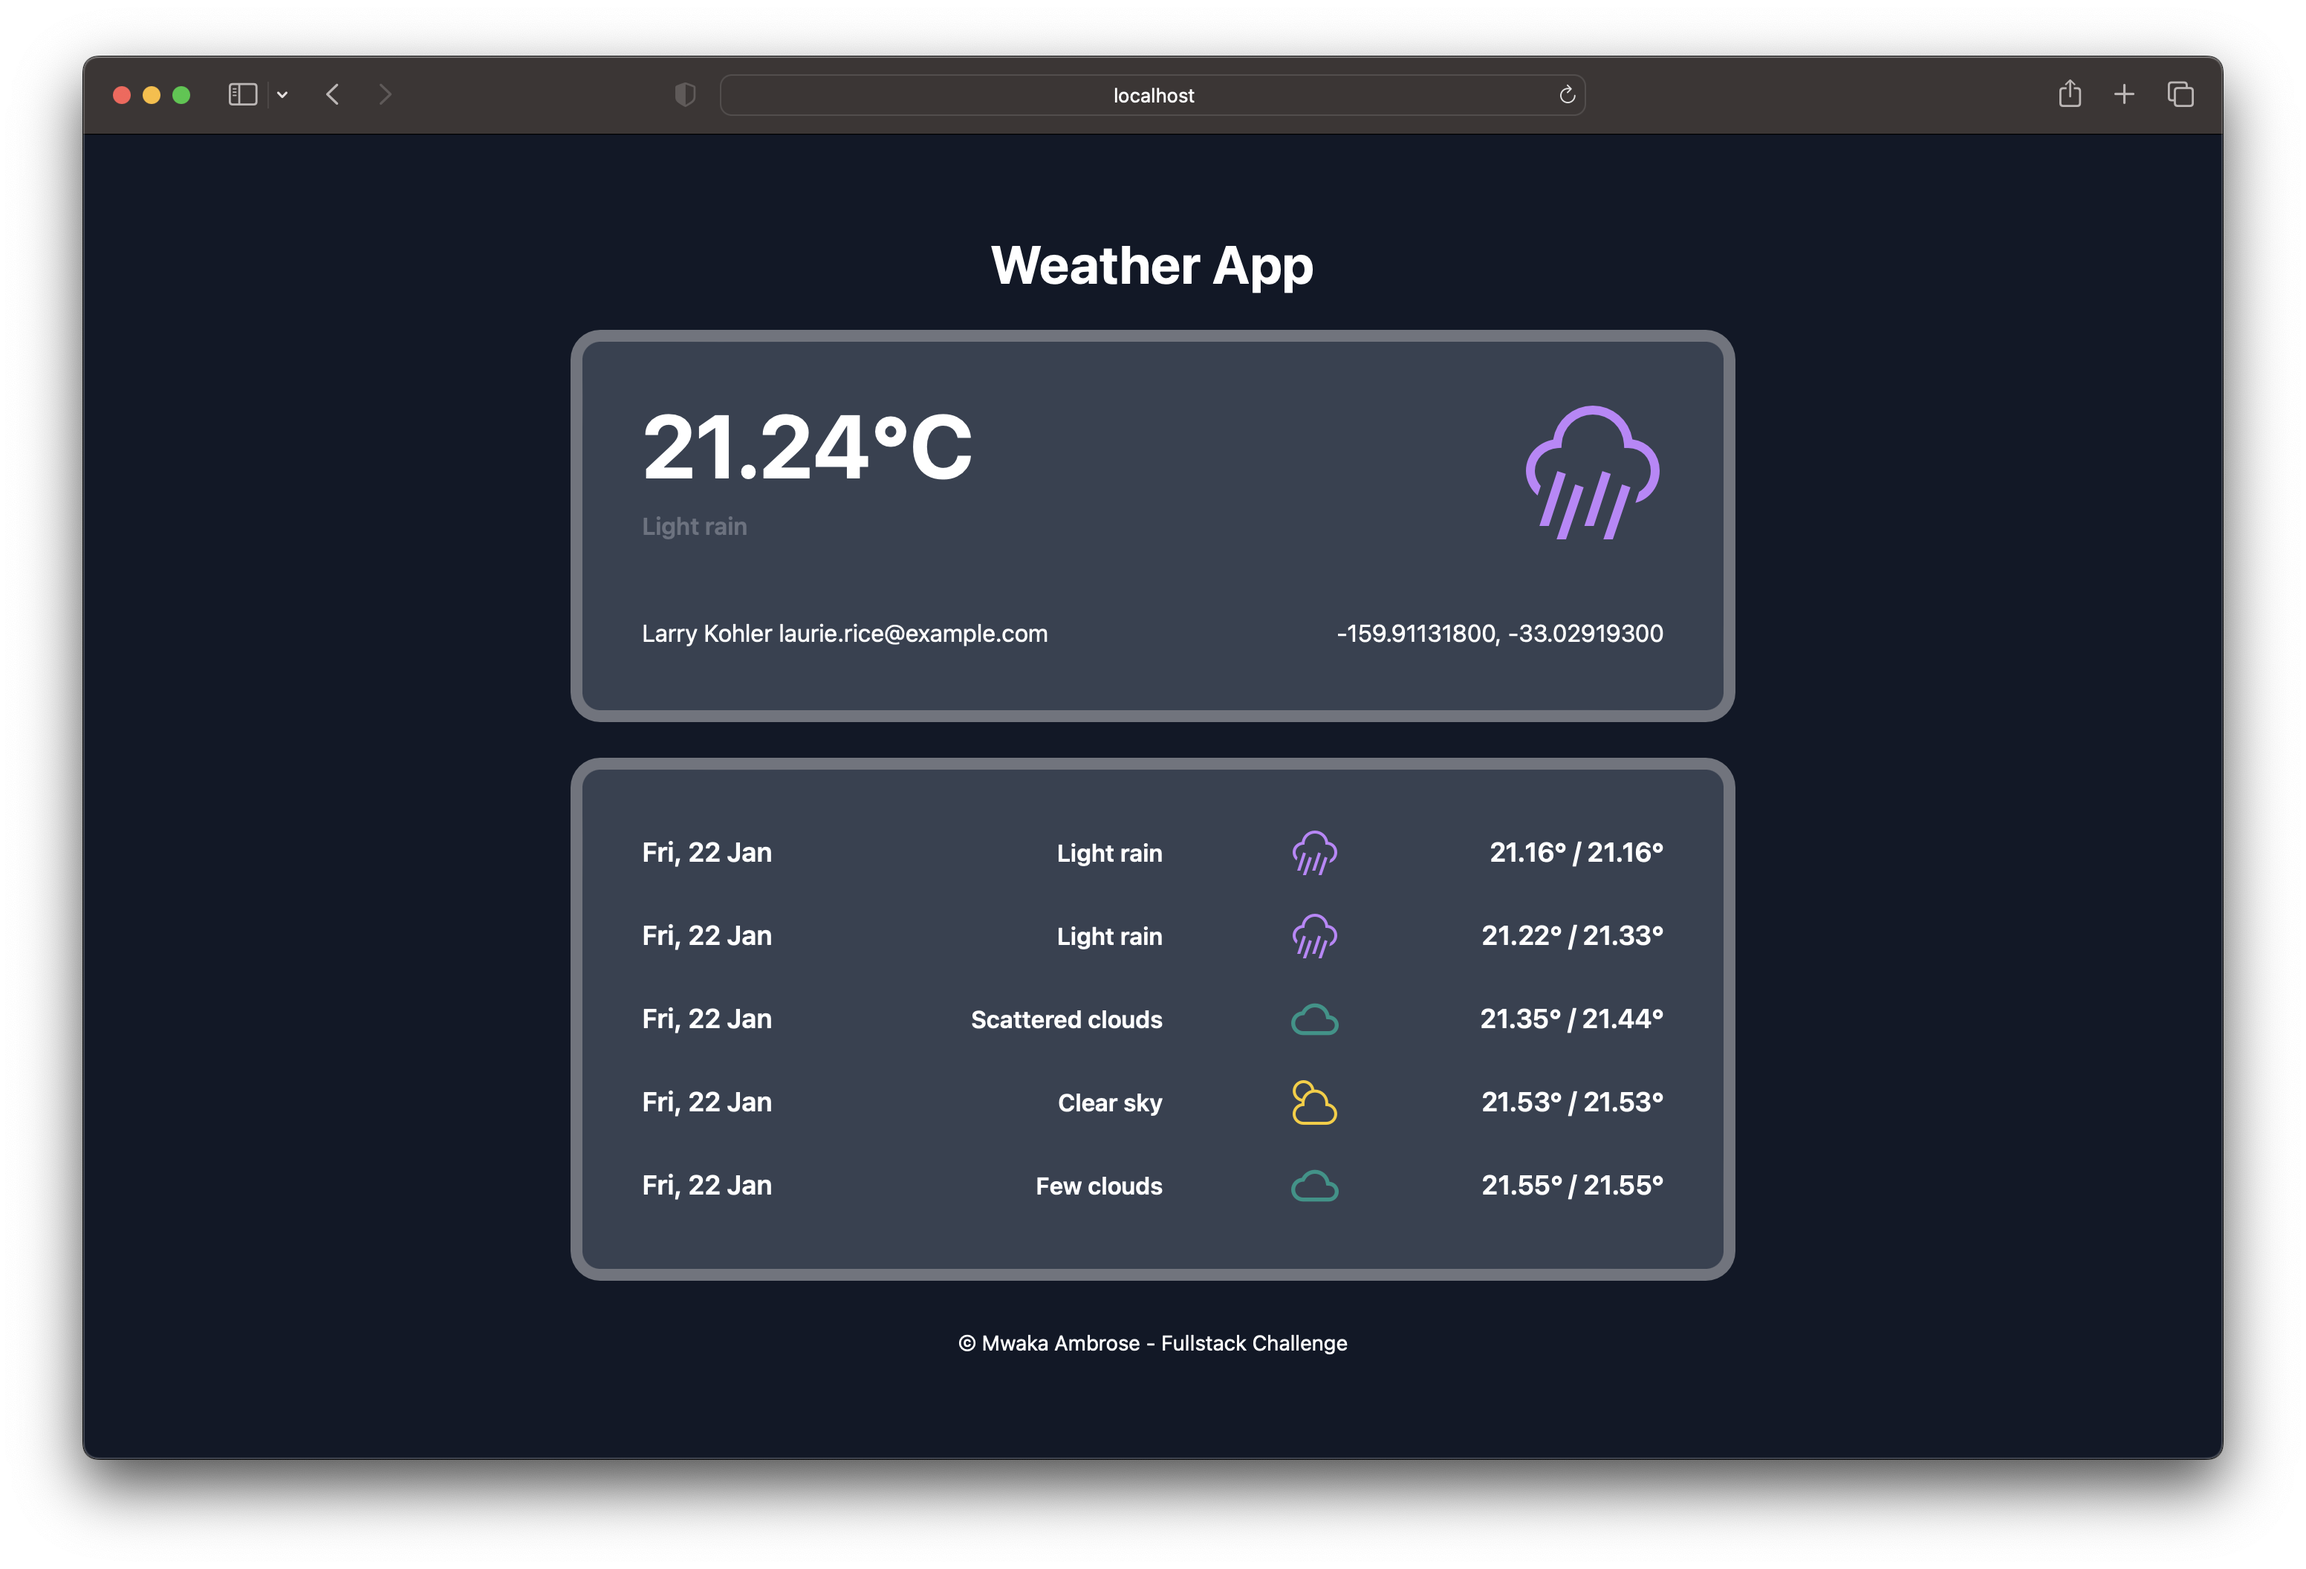
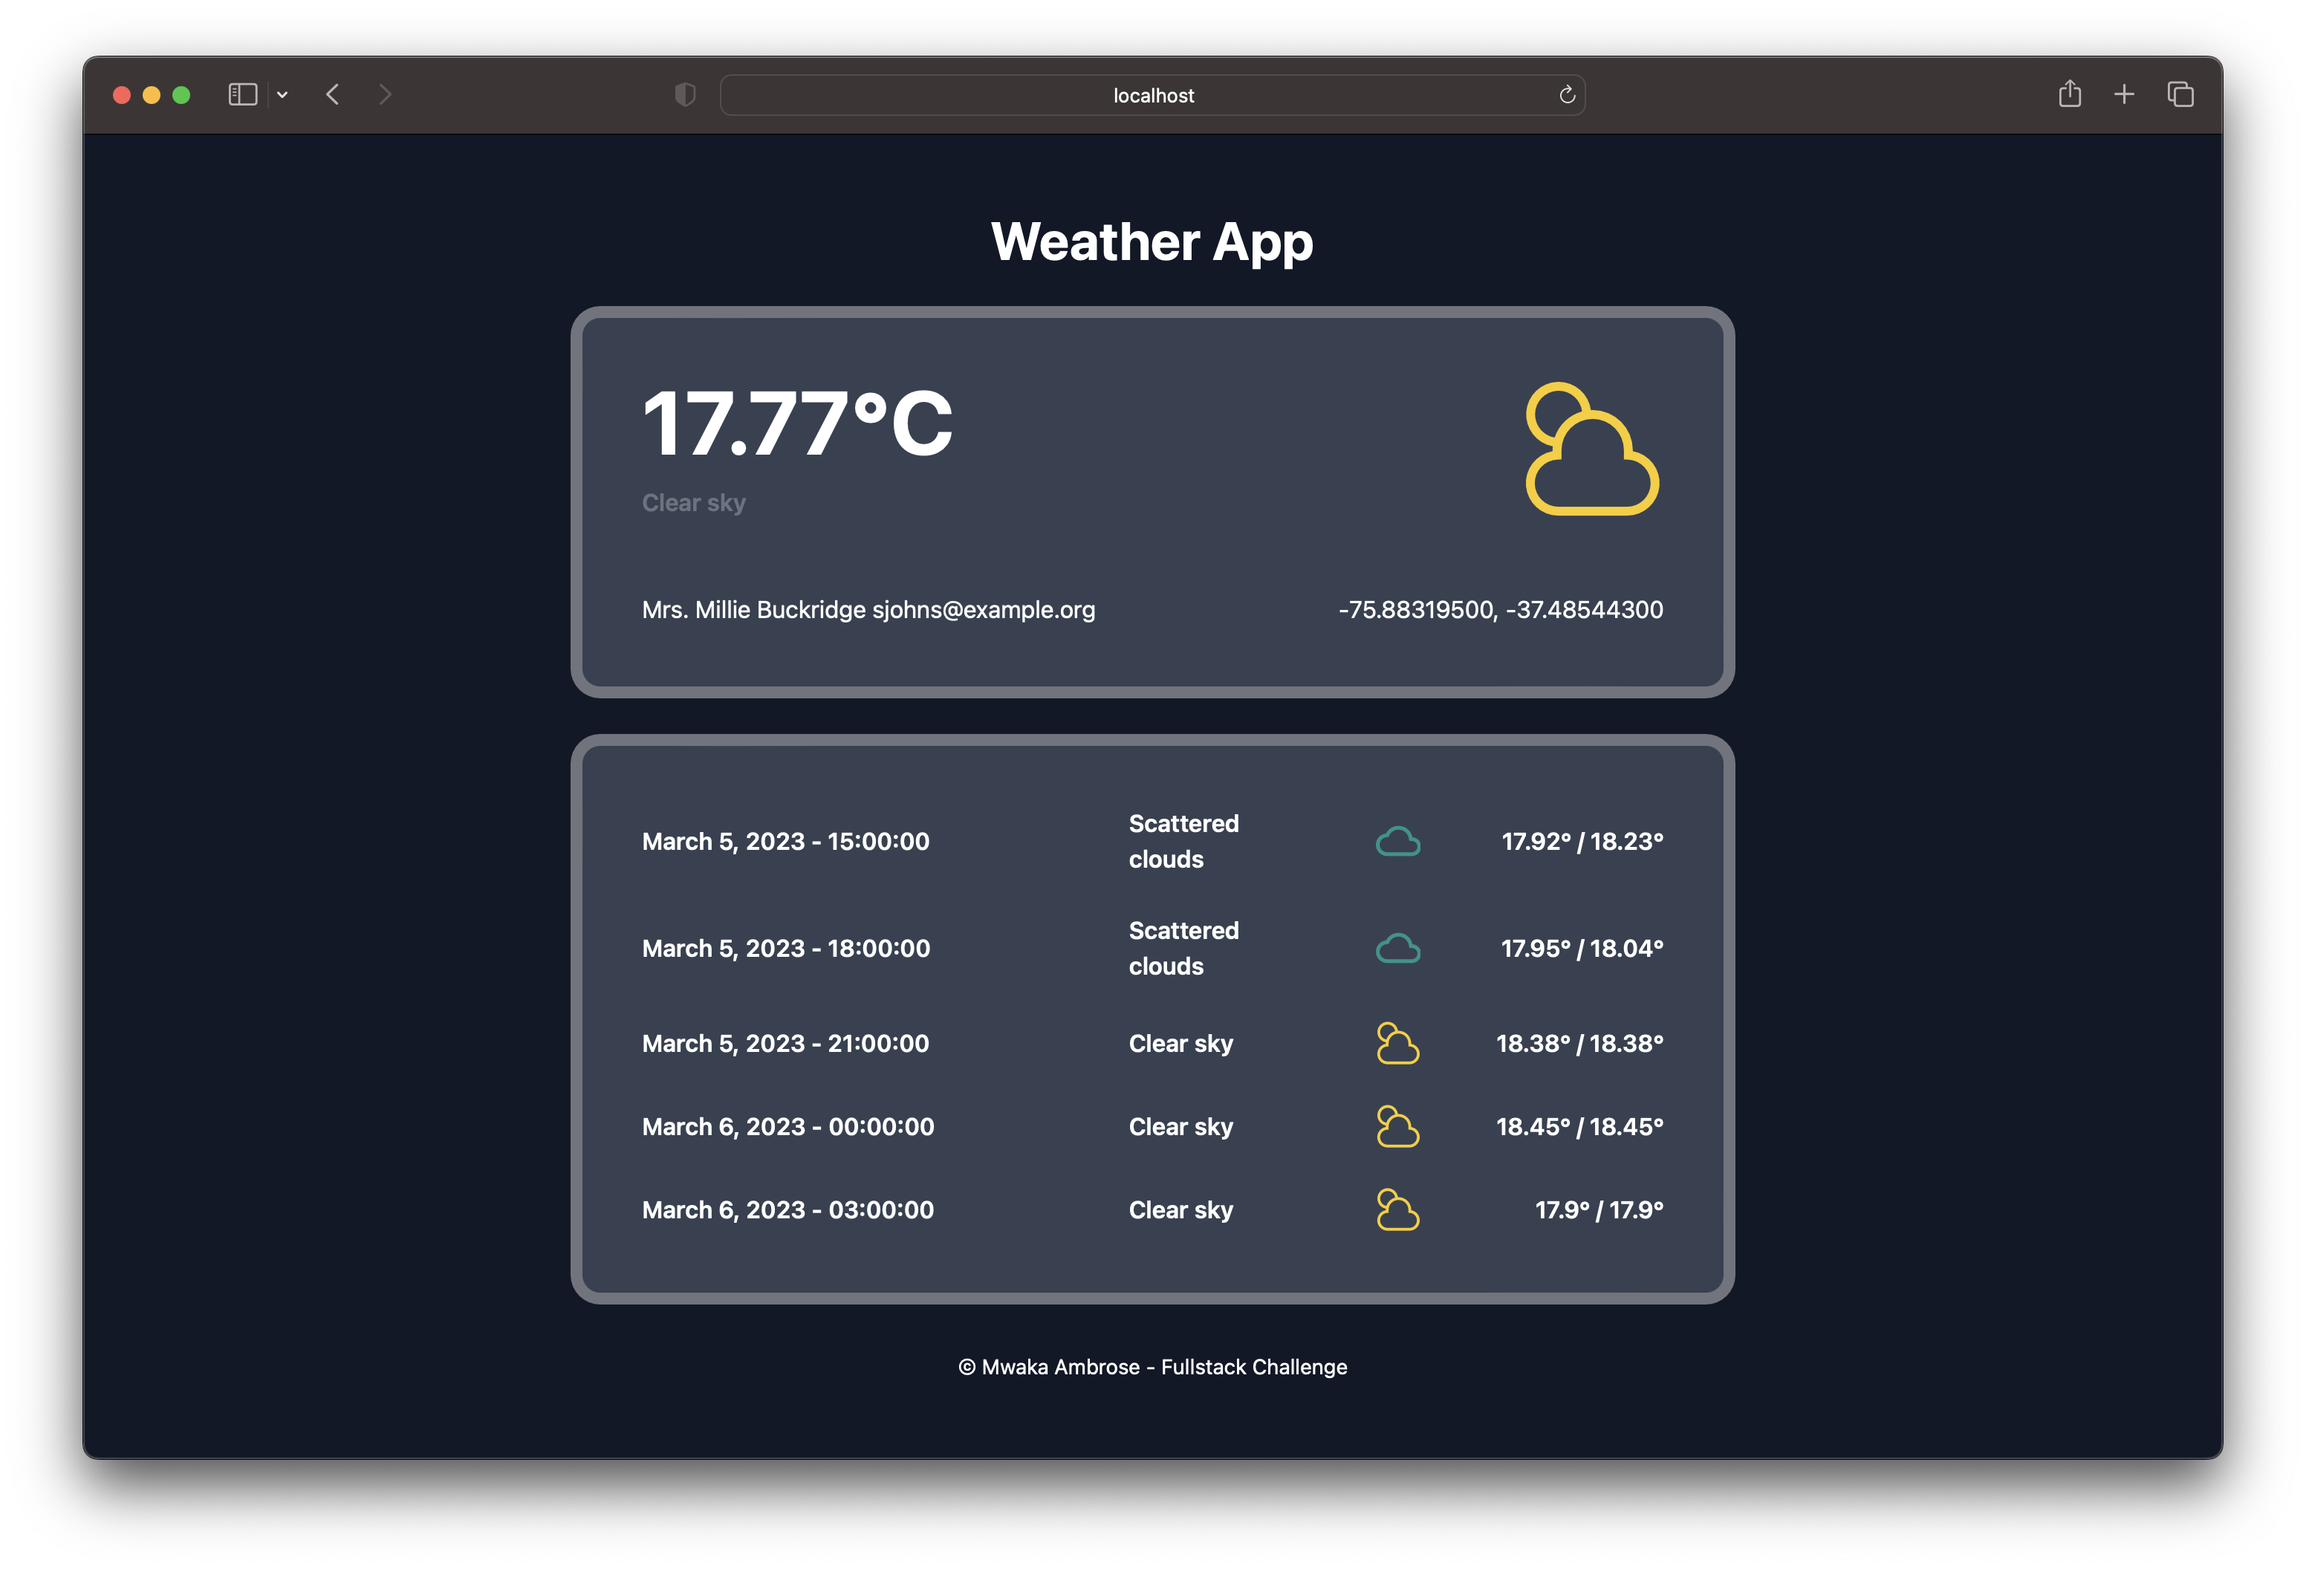
clean ups

diff --git a/frontend/src/views/DetailView.vue b/frontend/src/views/DetailView.vue
@@ -29,14 +29,16 @@
       <div
         class="flex flex-col space-y-6 w-full max-w-screen-md bg-gray-700 p-10 mt-10 rounded-xl ring-8 ring-white ring-opacity-40">
         <div v-for="forecast in weather.forecasts" :key="forecast.id" class="flex justify-between items-center">
-          <span class="font-semibold text-lg w-1/4">Fri, 22 Jan</span>
-          <div class="flex items-center justify-end w-1/4 pr-10">
-            <span class="font-semibold">
+          <span class="font-semibold w-2/4">
+            {{ prepDate(forecast.datetime_txt) }} - {{ forecast.datetime_txt.split(" ")[1] }}
+          </span>
+          <div class="flex items-center w-1/4 pr-10">
+            <span class="font-semibold overflow-hidden">
               {{ JSON.parse(forecast.weather)[0].description.capitalize() }}
             </span>
           </div>
           <WeatherIcon :weather="JSON.parse(forecast.weather)[0].main" />
-          <span class="font-semibold text-lg w-1/4 text-right">
+          <span class="font-semibold w-1/4 text-right">
             {{ JSON.parse(forecast.main).temp_min }}° / {{ JSON.parse(forecast.main).temp_max }}°
           </span>
         </div>
@@ -75,6 +77,11 @@ export default {
           this.weather = data.data.weather;
           this.isLoading = false;
         });
+    },
+    prepDate(date: string) {
+      const dateObj = new Date(date);
+      const options  = { year: "numeric", month: "long", day: "numeric" };
+      return dateObj.toLocaleDateString("en-US", options);
     },
   },
   created() {

diff --git a/frontend/src/components/WeatherIcon.vue b/frontend/src/components/WeatherIcon.vue
@@ -29,7 +29,7 @@
         </path>
     </svg>
     <svg v-if="weather.includes('Snow')" xmlns="http://www.w3.org/2000/svg" viewBox="0 0 512 512"
-        :class="size + ' fill-current text-cyan-600'">
+        :class="size + ' fill-current text-white'">
         <polygon
             points="135.279 206.728 224.136 258.323 144.097 304.797 48.308 279.129 48.308 312.259 123.155 332.313 102.99 407.571 131.68 424.135 155.518 335.169 240 286.115 240 374.402 168.823 445.579 197.513 462.144 258 401.657 317.135 460.792 345.826 444.228 272 370.402 272 286.115 355.002 334.31 379.279 424.914 407.97 408.349 387.596 332.313 464 311.841 464 278.712 367.508 304.567 287.864 258.323 376.327 206.957 464 230.449 464 197.32 394.346 178.657 413.576 106.888 384.886 90.323 361.196 178.739 272 230.53 272 130.568 338.833 63.735 310.143 47.171 254.971 102.343 200.664 48.037 171.974 64.601 240 132.627 240 230.53 149.325 177.88 126.073 91.103 97.382 107.667 116.404 178.657 48.308 196.903 48.308 230.032 135.279 206.728">
         </polygon>

diff --git a/frontend/src/views/IndexView.vue b/frontend/src/views/IndexView.vue
@@ -7,7 +7,7 @@
         <RouterLink :to="{ name: 'detail', params: { 'id': user.id } }">
           <div class="flex justify-between items-center">
             <span class="font-semibold text-lg w-1/4">{{ user.name }}</span>
-            <div class="flex items-center justify-end w-1/4 pr-10">
+            <div class="flex items-center w-1/4 pr-10">
               <span class="font-semibold">
                 {{ JSON.parse(user.weather.weather)[0].description.capitalize() }}
               </span>

diff --git a/api/app/Services/WeatherApiService.php b/api/app/Services/WeatherApiService.php
@@ -91,6 +91,7 @@ class WeatherApiService
                     "wind" => json_encode($weather_data["wind"]),
                     "rain" => json_encode(isset($weather_data["rain"]) ?? []),
                     "clouds" => json_encode($weather_data["clouds"]),
+                    "datetime_txt" => $weather_data["dt_txt"],
                 ]);
                 $weather->user()->associate($user);
                 $weather->save();

diff --git a/api/app/Models/Weather.php b/api/app/Models/Weather.php
@@ -23,12 +23,8 @@ class Weather extends Model
         "wind",
         "rain",
         "clouds",
+        "datetime_txt",
     ];
-
-    // public function getCreatedAtAttribute()
-    // {
-    //     return $this->created_at->format("Y-m-d H:i:s");
-    // }
 
     public function user(): BelongsTo
     {

diff --git a/api/database/migrations/2023_03_04_110846_create_weather_table.php b/api/database/migrations/2023_03_04_110846_create_weather_table.php
@@ -22,6 +22,7 @@ return new class extends Migration
             $table->json(column: 'wind');
             $table->json(column: 'rain');
             $table->json(column: 'clouds');
+            $table->text(column: 'datetime_txt')->nullable();
             $table->timestamps();
         });
     }
